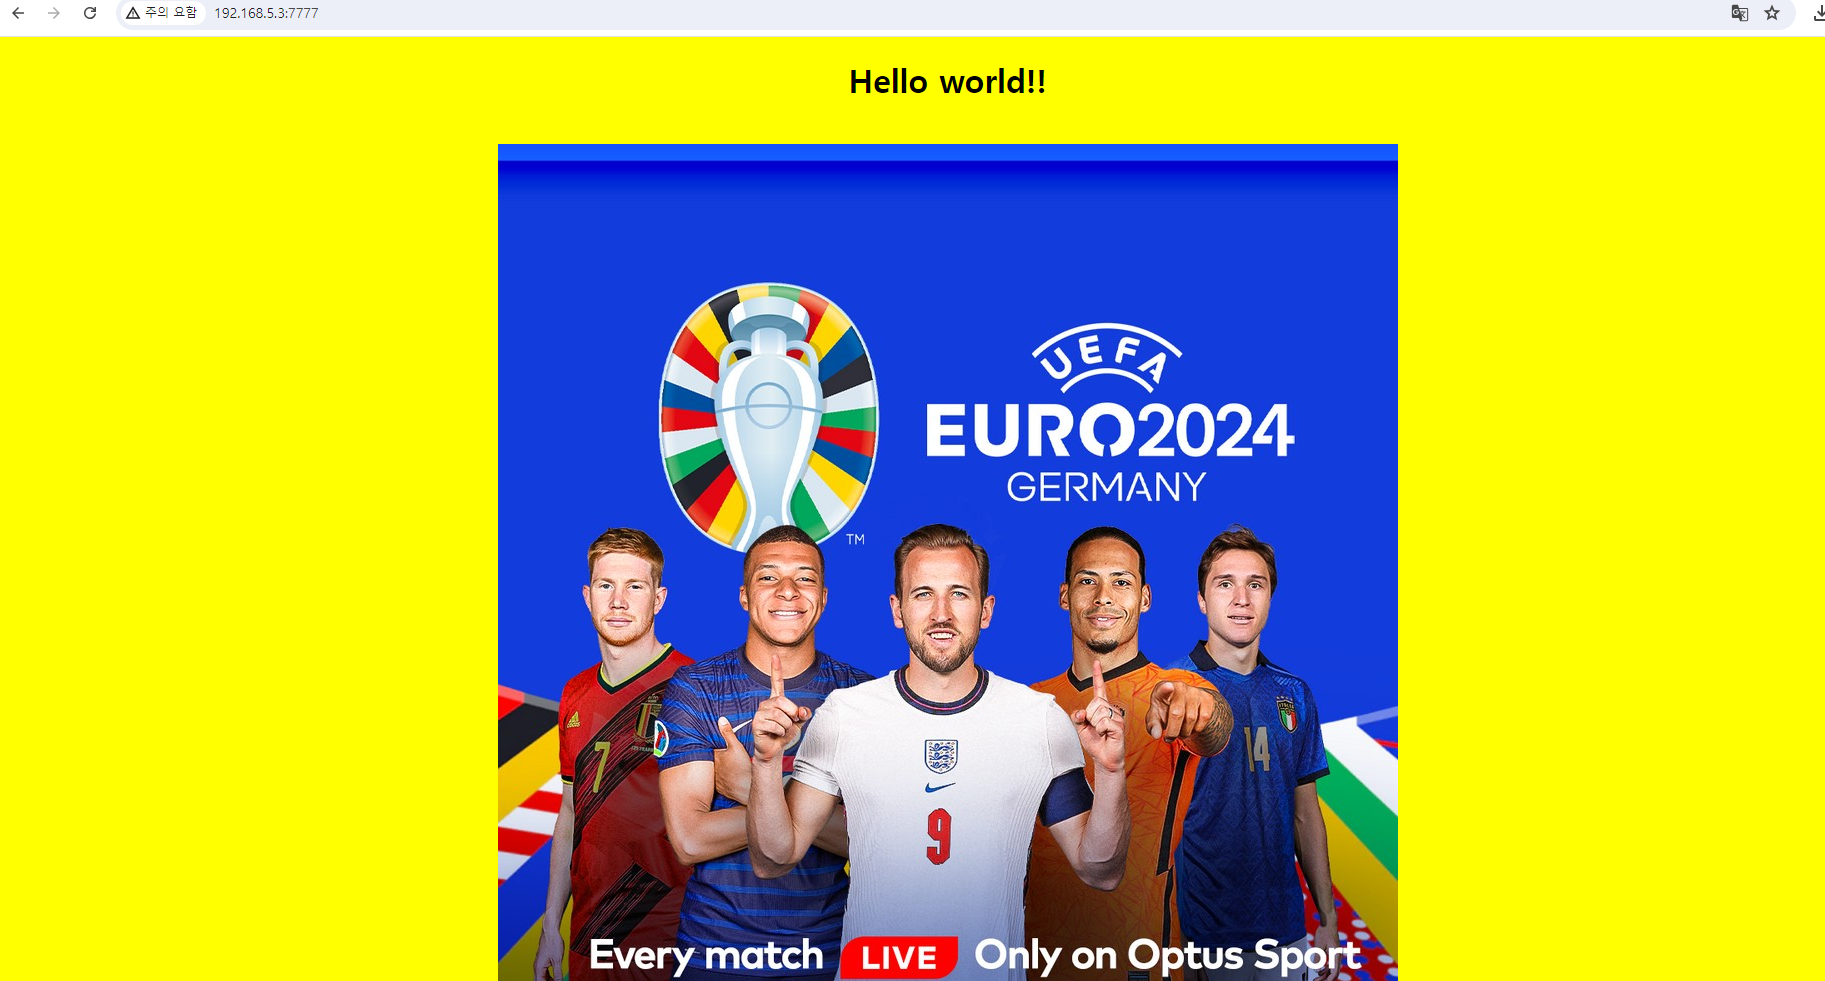
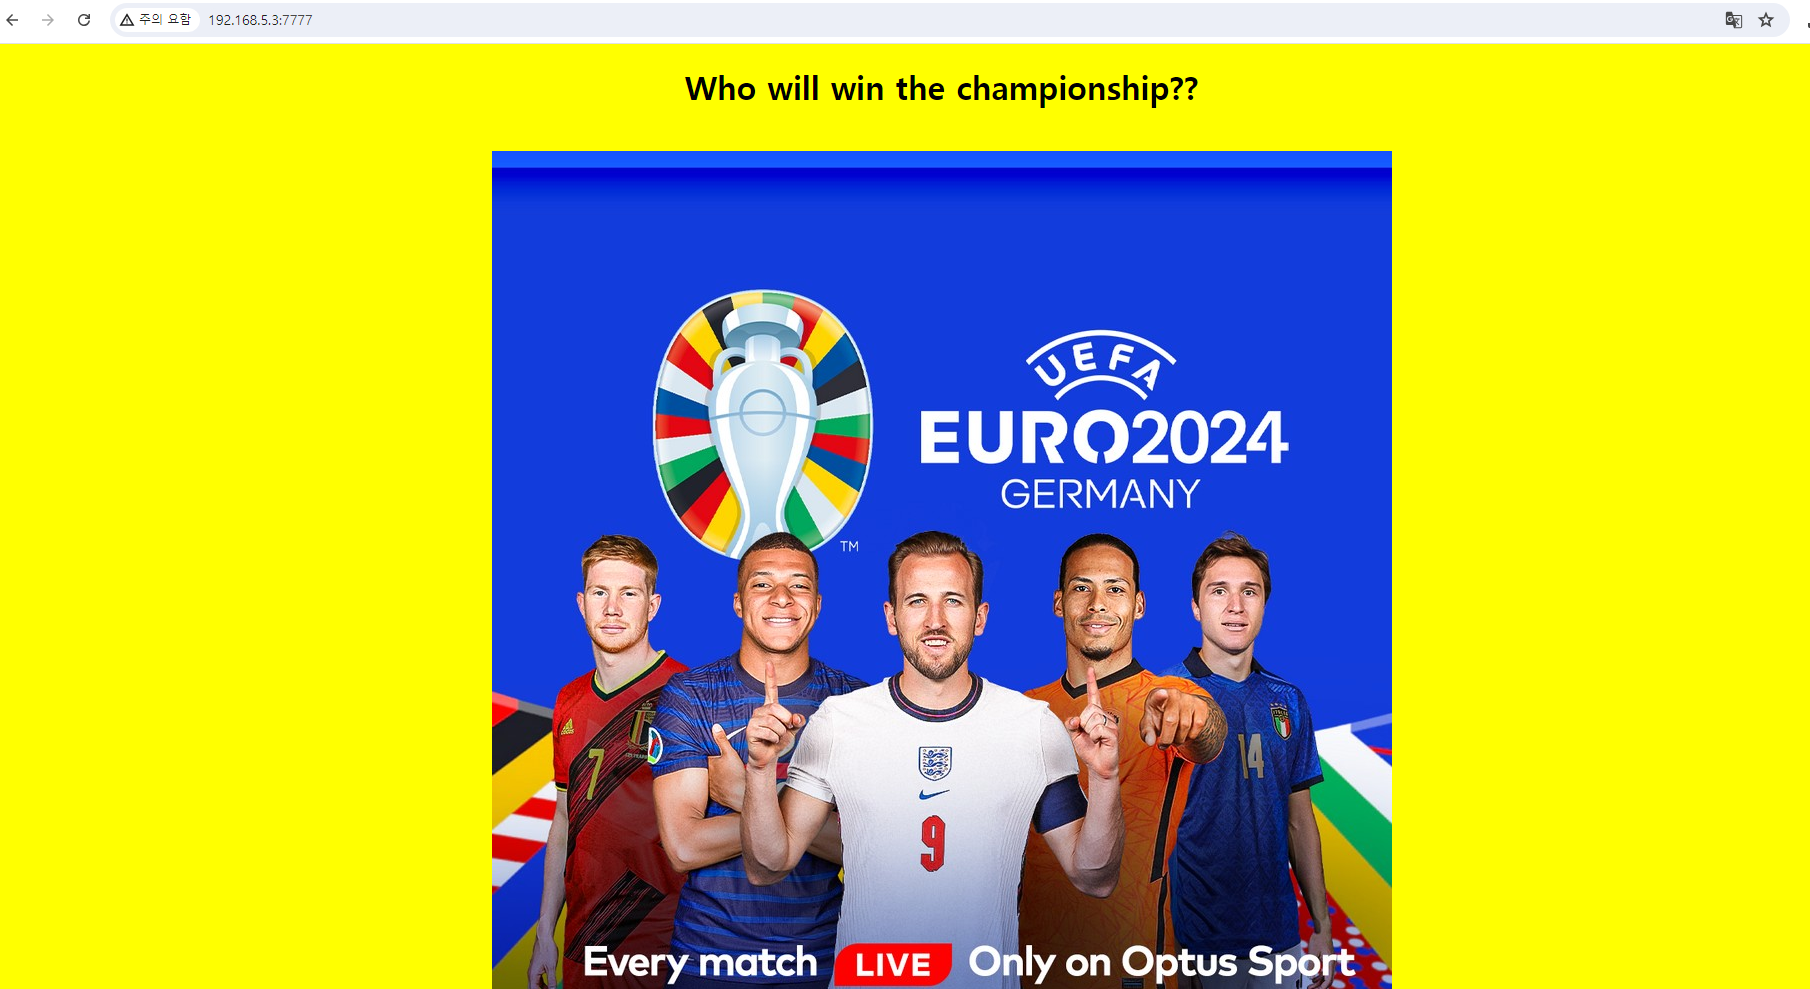
수정

Changed region(s): [[0.0, 0.0, 1.0, 1.0], [0.495, 0.8257, 0.526, 0.8869]]

diff --git a/day07/miniproject/webserver.c b/day07/miniproject/webserver.c
@@ -15,7 +15,7 @@ const char webpage[] = "HTTP/1.1 200 OK\r\n"
 "<!DOCTYPE html>\r\n"
 "<html><head><title> My Web Page </title>\r\n"
 "<style>body {background-color: #FFFF00 }</style></head>\r\n"
-"<body><center><h1>Hello world!!</h1><br>\r\n"
+"<body><center><h1>Who will win the championship??</h1><br>\r\n"
 "<img src=\"game.jpg\"></center></body></html>\r\n";
 
 void* handle_client(void* client_socket) {
@@ -29,6 +29,13 @@ void* handle_client(void* client_socket) {
         printf("Received: %s\n", buffer);
 
         if (strstr(buffer, "GET /game.jpg") != NULL) {
+            struct stat st;
+            if (stat("game.jpg", &st) != 0) {
+                perror("Failed to get file status");
+                close(sock);
+                return NULL;
+            }
+            int file_size = st.st_size;
             FILE* image_file = fopen("game.jpg", "rb");
             if (image_file == NULL) {
                 perror("Failed to open image file");
@@ -36,9 +43,6 @@ void* handle_client(void* client_socket) {
                 return NULL;
             }
 
-            struct stat st;
-            stat("game.jpg", &st);
-            int file_size = st.st_size;
             char header[BUFFER_SIZE];
             snprintf(header, sizeof(header),
                 "HTTP/1.1 200 OK\r\n"
